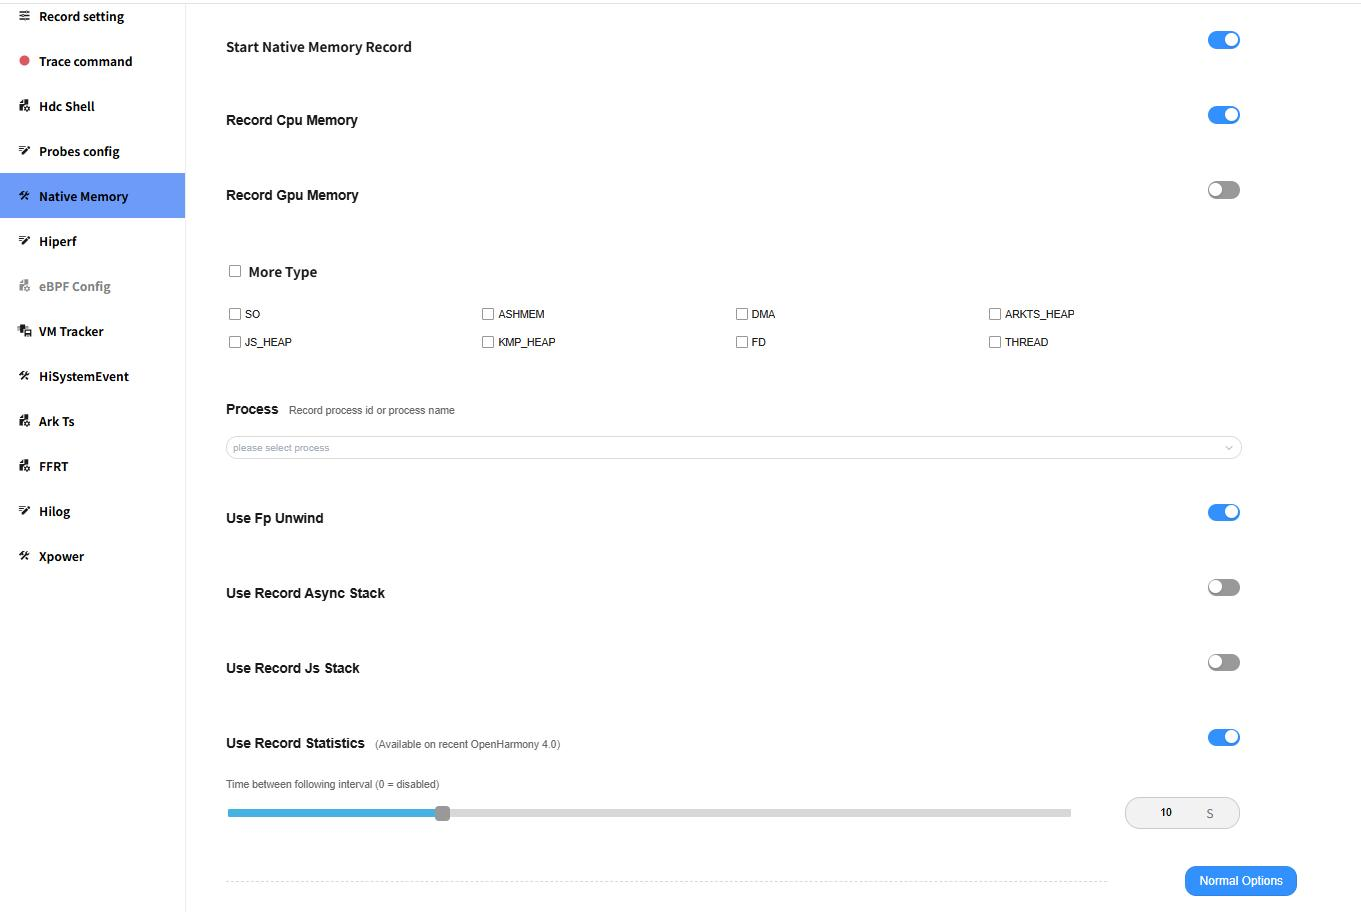
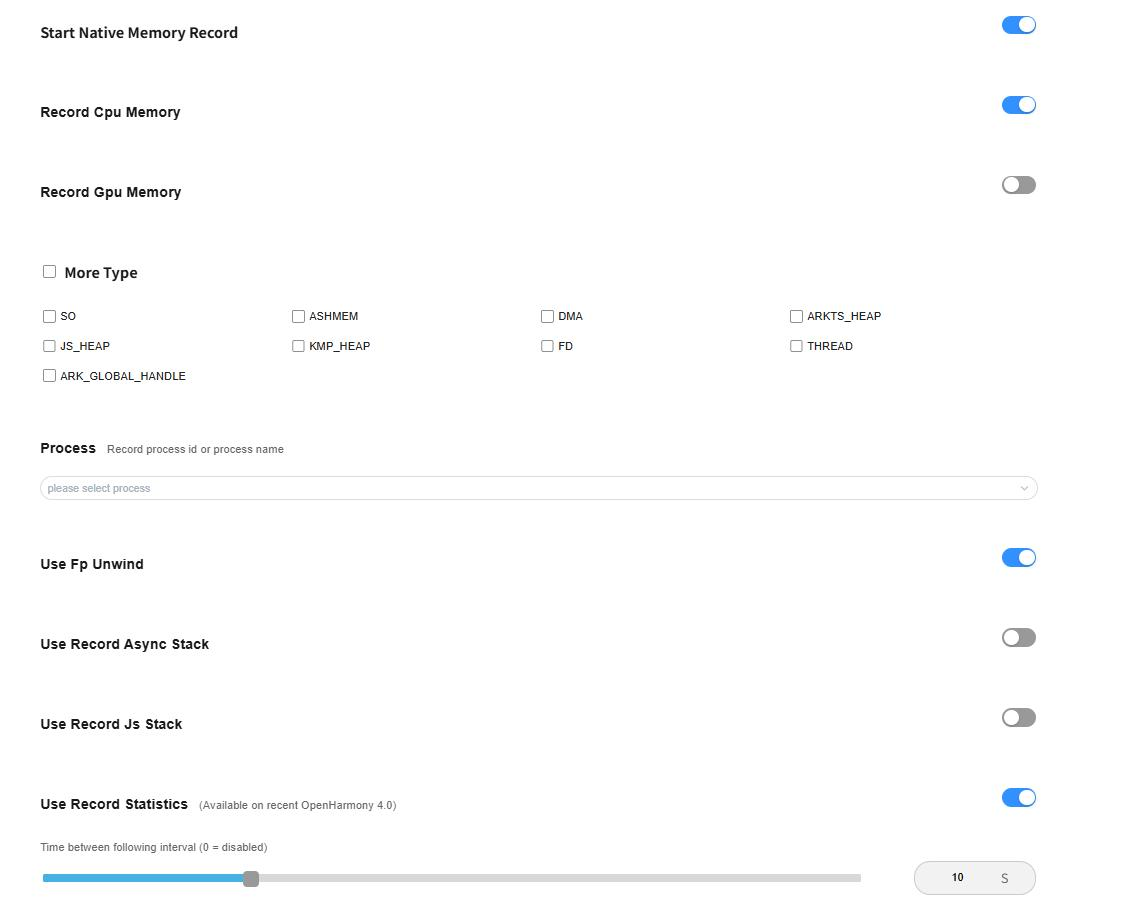
feat:更新帮助文档及增加more type配置

diff --git a/smartperf_host/ide/src/doc/quickstart_native_memory.html b/smartperf_host/ide/src/doc/quickstart_native_memory.html
@@ -798,7 +798,7 @@
       <ul class="fontColor">
         <li>Record Cpu Memory：抓取cpu内存。</li>
         <li>Record Gpu Memory：抓取gpu内存。</li>
-        <li>More Type：抓取更多内存类型(SO、ASHMEM、DMA、ARKTS_HEAP、JS_HEAP、KMP_HEAP、FD、THREAD)。</li>
+        <li>More Type：抓取更多内存类型(SO、ASHMEM、DMA、ARKTS_HEAP、JS_HEAP、KMP_HEAP、FD、THREAD、ARK_GLOBAL_HANDLE)。</li>
         <li>Process：设置抓取的进程 ID 或者进程名，此处以输入 com.ohos.mms 进程名为例。</li>
         <li>Use Fp Unwind：是否Fp 回栈。</li>
         <li>Use Record Statistics：统计数据上报时间间隔设置。</li>
@@ -878,15 +878,19 @@
           </pre>
         </li>
         <li>
-          <pre class="smartperf-text fontColor light">All Heap&amp;Anonymous VM：malloc分配和mmap分配的总量。
+          <pre class="smartperf-text fontColor light">All Heap&amp;Anonymous VM：malloc、globalhandle、arktsHeap、jsHeap、kmpHeap分配和mmap、dma、so、ashmem分配的总量。
           </pre>
         </li>
         <li>
-          <pre class="smartperf-text fontColor light">All Heap：malloc分配的内存。
+          <pre class="smartperf-text fontColor light">All Heap：malloc、globalhandle、arktsHeap、jsHeap、kmpHeap分配的内存。
           </pre>
         </li>
         <li>
-          <pre class="smartperf-text fontColor light">All Anonymous VM：mmap分配的内存。
+          <pre class="smartperf-text fontColor light">All Anonymous VM：mmap、dma、so、ashmem分配的内存。
+          </pre>
+        </li>
+        <li>
+          <pre class="smartperf-text fontColor light">Native Heap：malloc、globalhandle分配的内存。
           </pre>
         </li>
       </ul>

diff --git a/smartperf_host/ide/src/doc/quickstart_fd.html b/smartperf_host/ide/src/doc/quickstart_fd.html
@@ -796,7 +796,7 @@
         配置参数说明：
       </p>
       <ul class="fontColor">
-        <li>More Type：抓取更多内存类型(SO、ASHMEM、DMA、ARKTS_HEAP、JS_HEAP、KMP_HEAP、FD、THREAD)。</li>
+        <li>More Type：抓取更多内存类型(SO、ASHMEM、DMA、ARKTS_HEAP、JS_HEAP、KMP_HEAP、FD、THREAD、ARK_GLOBAL_HANDLE)。</li>
       </ul>
       <p class="fontColor">fd & thread抓取：<br>
       </p>

diff --git a/smartperf_host/ide/src/trace/component/setting/utils/PluginConvertUtils.ts b/smartperf_host/ide/src/trace/component/setting/utils/PluginConvertUtils.ts
@@ -324,4 +324,5 @@ export const MEMORY_TYPE_OPTIONS: TypeOption[] = [
   { value: 'RES_KMP_HEAP_MASK', label: 'KMP_HEAP' },
   { value: 'RES_FD_ALL', label: 'FD' },
   { value: 'RES_THREAD_ALL', label: 'THREAD' },
+  { value: 'RES_ARK_GLOBAL_HANDLE', label: 'ARK_GLOBAL_HANDLE' },
 ];

diff --git a/smartperf_host/ide/src/doc/md/quickstart_native_memory.md b/smartperf_host/ide/src/doc/md/quickstart_native_memory.md
@@ -9,9 +9,13 @@ Native Memory 是查看内存的分配和释放等情况。
 ![GitHub Logo](../../figures/NativeMemory/nativememorysetting.png)
 配置参数说明：
 
+- Record Cpu Memory：抓取cpu内存。
+- Record Gpu Memory：抓取gpu内存。
+- More Type：抓取更多内存类型(SO、ASHMEM、DMA、ARKTS_HEAP、JS_HEAP、KMP_HEAP、FD、THREAD、ARK_GLOBAL_HANDLE)。
 - Process：设置抓取的进程 ID 或者进程名，此处以输入 com.ohos.mms 进程名为例。
 - Use Fp Unwind：是否Fp 回栈。
 - Use Record Statistics：统计数据上报时间间隔设置。
+- Use Record Async Stack：是否抓异步栈。
 - Use Record Js Stack：是否抓js栈。
 
 点击Advance Options进入高级配置界面
@@ -65,9 +69,10 @@ Native Memory 是查看内存的分配和释放等情况。
 
 -     Current Bytes：以申请内存的size绘制泳道图。
 -     Native Memory Density：以申请内存的数量绘制泳道图。
--     All Heap&Anonymous VM：malloc分配和mmap分配的总量。
--     All Heap：malloc分配的内存。
--     All Anonymous VM：mmap分配的内存。
+-     All Heap&Anonymous VM：malloc、globalhandle、arktsHeap、jsHeap、kmpHeap分配和mmap、dma、so、ashmem分配的总量。
+-     All Heap：malloc、globalhandle、arktsHeap、jsHeap、kmpHeap分配的内存。
+-     All Anonymous VM：mmap、dma、so、ashmem分配的内存。
+-     Native Heap：malloc、globalhandle分配的内存。
 
 ### Native Memory 泳道图的框选功能
 

diff --git a/smartperf_host/ide/src/doc/md/quickstart_gpu_memory.md b/smartperf_host/ide/src/doc/md/quickstart_gpu_memory.md
@@ -1,0 +1,37 @@
+# Gpu Memory 抓取和展示说明
+
+Gpu Memory 是查看gpu内存的分配和释放等情况。
+
+## Gpu Memory 的抓取
+
+### Gpu Memory 抓取配置参数
+
+![GitHub Logo](../../figures/NativeMemory/nativememorysetting.png)
+配置参数说明：
+
+- Record Gpu Memory：打开gpu memory开关。
+- Gpu Type：gpu memory类型（包括：RES_GPU_VK、RES_GPU_GLES_IMAGE、RES_GPU_GLES_BUFFER、RES_GPU_CL_IMAGE、RES_GPU_CL_BUFFER）。
+
+gpu memory抓取：
+- 打开Record Gpu Memory开关，可以与cpu memory同时抓取，也可单独抓取。
+- 其他操作可参考native memory抓取。
+
+## Gpu Memory 展示说明
+
+将抓取的 Gpu Memory 文件导入到 smartperf工具中查看，查看gpu内存的分配和释放等情况。
+
+### Gpu Memory 泳道图展示类型
+
+点击齿轮状的图标可以设置内存的展示单位。
+![GitHub Logo](../../figures/GpuMemory/gpuchart.png)
+
+-     Current Bytes：以申请内存的size绘制泳道图。
+-     Gpu Memory Density：以申请内存的数量绘制泳道图。
+-     All Gpu Memory：VulKan分配和OpenGLES分配和OpenCL分配的总量。
+-     Gpu VK：VulKan分配的内存。
+-     Gpu GLES：OpenGLES分配的内存。
+-     Gpu CL：OpenCL分配的内存。
+
+### GPU Memory 泳道图的框选功能
+
+可参考Native Memory 泳道图的框选功能。

diff --git a/smartperf_host/ide/src/doc/md/quickstart_fd.md b/smartperf_host/ide/src/doc/md/quickstart_fd.md
@@ -1,0 +1,33 @@
+# FD & Thread 抓取和展示说明
+
+FD & Thread 是查看fd、thrad的分配和释放等情况。
+
+## FD & Thread 的抓取
+
+### FD & Thread 抓取配置参数
+
+![GitHub Logo](../../figures/fd/fdmemoryset.png)
+配置参数说明：
+
+- More Type：抓取更多内存类型(SO、ASHMEM、DMA、ARKTS_HEAP、JS_HEAP、KMP_HEAP、FD、THREAD、 ARK_GLOBAL_HANDLE)。
+
+fd & thread抓取：
+- 打开Start Native Memory Record开关。
+- 勾选FD或者THREAD（也可二者都打开开关，同时抓取）。
+- 其他操作可参考native memory抓取。
+
+## FD & Thread 展示说明
+
+将抓取的 FD & Thread 文件导入到 smartperf工具中查看，查看fd、thrad的分配和释放等情况。
+
+### FD & Thread 泳道图展示类型
+
+FD & Thread不同于native memory的是，只有count，没有size，因此没有点击齿轮图标设置内存展示单位的功能。
+![GitHub Logo](../../figures/fd/fdchart.png)
+
+-     FD：FD分配的次数。
+-     Thread：Thread分配的次数。
+
+### FD & Thread 泳道图的框选功能
+
+可参考Native Memory 泳道图的框选功能。
